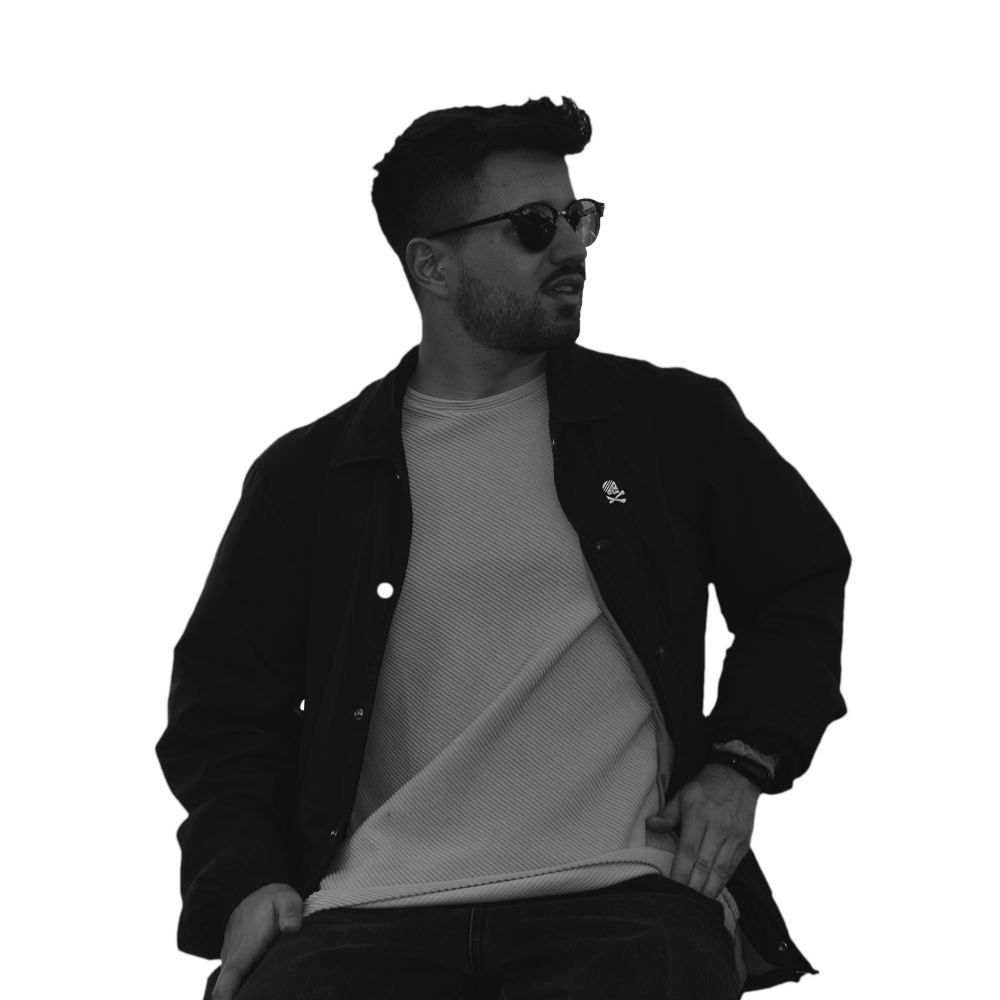
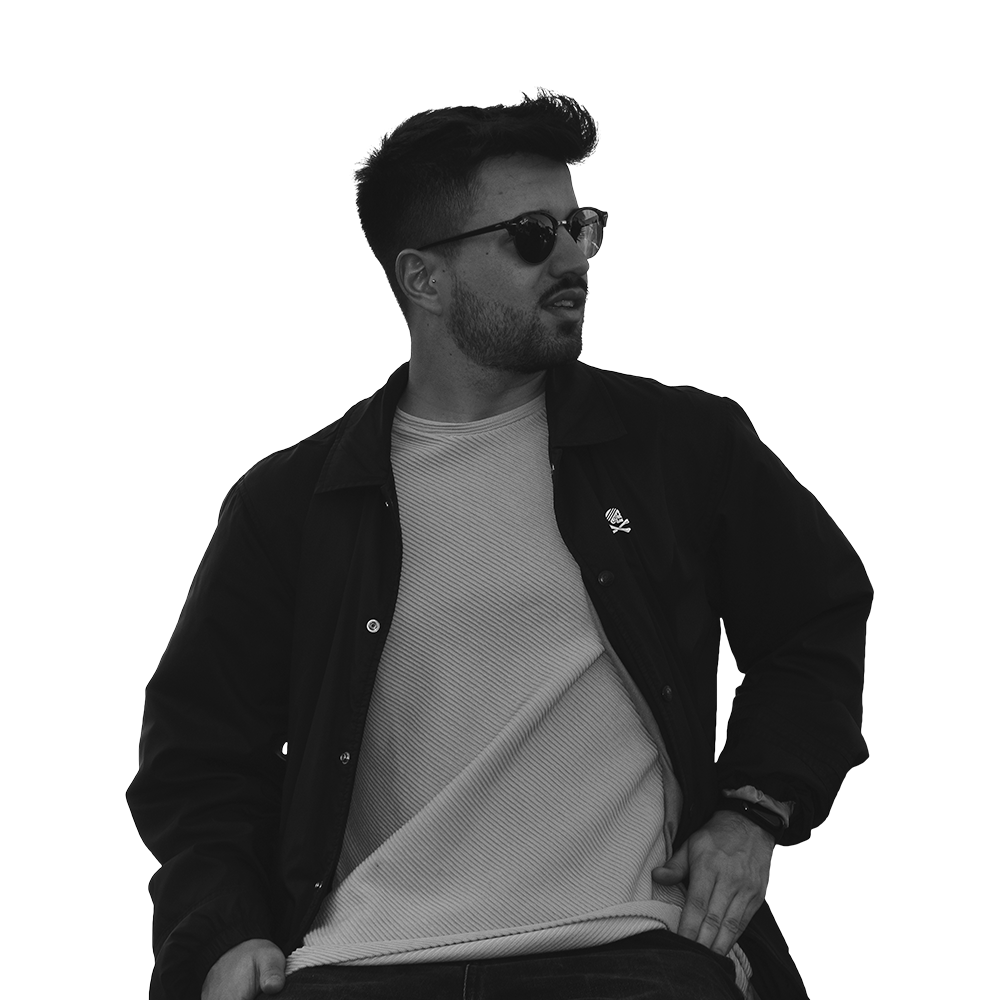
Changes

diff --git a/index.html b/index.html
@@ -40,7 +40,7 @@
 	          <!--<li class="nav-item"><a href="#services-section" class="nav-link"><span>Services</span></a></li>-->
 	          <li class="nav-item"><a href="#skills-section" class="nav-link"><span>Skills</span></a></li>
 	          <li class="nav-item"><a href="#projects-section" class="nav-link"><span>Projects</span></a></li>
-	          <li class="nav-item"><a href="#blog-section" class="nav-link"><span>My Blog</span></a></li>
+	          <!--<li class="nav-item"><a href="#blog-section" class="nav-link"><span>My Blog</span></a></li>-->
 	          <li class="nav-item"><a href="#contact-section" class="nav-link"><span>Contact</span></a></li>
 	        </ul>
 	      </div>
@@ -60,7 +60,7 @@
 		          		<span class="subheading">Hello!</span>
 			            <h1 class="mb-4 mt-3">I'm <span>Giuseppe Murro</span></h1>
 			            <h2 class="mb-4">A Freelance Developer</h2>
-			            <p><a href="#" class="btn btn-primary py-3 px-4">Hire me</a> <a href="#contact-section" class="btn btn-white btn-outline-white py-3 px-4">My works</a></p>
+			            <p><a href="#contact-section" class="btn btn-primary py-3 px-4">Hire me</a> <a href="#projects-section" class="btn btn-white btn-outline-white py-3 px-4">My works</a></p>
 		            </div>
 		          </div>
 	        	</div>
@@ -79,7 +79,7 @@
 		          		<span class="subheading">Hello!</span>
 			            <h1 class="mb-4 mt-3">I'm currently <span>studying</span> for a master's degree</h1>
 			            <h2 class="mb-4">in Computer Science</h2>
-			            <p><a href="#" class="btn btn-primary py-3 px-4">Hire me</a> <a href="#contact-section" class="btn btn-white btn-outline-white py-3 px-4">My works</a></p>
+			            <p><a href="#contact-section" class="btn btn-primary py-3 px-4">Hire me</a> <a href="#projects-section" class="btn btn-white btn-outline-white py-3 px-4">My works</a></p>
 		            </div>
 		          </div>
 	        	</div>
@@ -94,7 +94,7 @@
     			<div class="col-md-6 col-lg-5 d-flex">
     				<div class="img-about img d-flex align-items-stretch">
     					<div class="overlay"></div>
-	    				<div class="img d-flex align-self-stretch align-items-center" style="background-image:url(images/gm_2.png);">
+	    				<div class="img d-flex align-self-stretch align-items-center" style="background-image:url(images/gm_3.png);">
 	    				</div>
     				</div>
     			</div>
@@ -324,10 +324,10 @@ My interest areas are cybersecurity, thanks to participation in the <a href="htt
 					</div>
 					<div class="col-md-6 animate-box">
 						<div class="progress-wrap ftco-animate">
-							<h3>Firebase Realtime Database</h3>
+							<h3>Firebase Realtime DB</h3>
 							<div class="progress">
-							 	<div class="progress-bar color-4" role="progressbar" aria-valuenow="65"
-							  	aria-valuemin="0" aria-valuemax="100" style="width:65%">
+							 	<div class="progress-bar color-4" role="progressbar" aria-valuenow="75"
+							  	aria-valuemin="0" aria-valuemax="100" style="width:75%">
 							    <span>65%</span>
 							  	</div>
 							</div>
@@ -348,8 +348,8 @@ My interest areas are cybersecurity, thanks to participation in the <a href="htt
 						<div class="progress-wrap ftco-animate">
 							<h3>Web Development</h3>
 							<div class="progress">
-							 	<div class="progress-bar color-6" role="progressbar" aria-valuenow="70"
-							  	aria-valuemin="0" aria-valuemax="100" style="width:70%">
+							 	<div class="progress-bar color-6" role="progressbar" aria-valuenow="80"
+							  	aria-valuemin="0" aria-valuemax="100" style="width:80%">
 							    <span>70%</span>
 							  	</div>
 							</div>
@@ -368,7 +368,7 @@ My interest areas are cybersecurity, thanks to participation in the <a href="htt
 					</div>
 					<div class="col-md-6 animate-box">
 						<div class="progress-wrap ftco-animate">
-							<h3>SonarQube Quality Assessment</h3>
+							<h3>SonarQube Assessment</h3>
 							<div class="progress">
 							 	<div class="progress-bar color-6" role="progressbar" aria-valuenow="86"
 							  	aria-valuemin="0" aria-valuemax="100" style="width:86%">
@@ -379,7 +379,7 @@ My interest areas are cybersecurity, thanks to participation in the <a href="htt
 					</div>
 					<div class="col-md-6 animate-box">
 						<div class="progress-wrap ftco-animate">
-							<h3>Pentesting Kali Tools</h3>
+							<h3>Pentesting Kali</h3>
 							<div class="progress">
 							 	<div class="progress-bar color-5" role="progressbar" aria-valuenow="55"
 							  	aria-valuemin="0" aria-valuemax="100" style="width:55%">
@@ -392,9 +392,31 @@ My interest areas are cybersecurity, thanks to participation in the <a href="htt
 						<div class="progress-wrap ftco-animate">
 							<h3>Photoshop</h3>
 							<div class="progress">
-							 	<div class="progress-bar color-6" role="progressbar" aria-valuenow="40"
-							  	aria-valuemin="0" aria-valuemax="100" style="width:40%">
+							 	<div class="progress-bar color-6" role="progressbar" aria-valuenow="50"
+							  	aria-valuemin="0" aria-valuemax="100" style="width:50%">
 							    <span>40%</span>
+							  	</div>
+							</div>
+						</div>
+					</div>
+					<div class="col-md-6 animate-box">
+						<div class="progress-wrap ftco-animate">
+							<h3>Spark AR Studio</h3>
+							<div class="progress">
+							 	<div class="progress-bar color-5" role="progressbar" aria-valuenow="70"
+							  	aria-valuemin="0" aria-valuemax="100" style="width:70%">
+							    <span>60%</span>
+							  	</div>
+							</div>
+						</div>
+					</div>
+					<div class="col-md-6 animate-box">
+						<div class="progress-wrap ftco-animate">
+							<h3>MySQL</h3>
+							<div class="progress">
+							 	<div class="progress-bar color-6" role="progressbar" aria-valuenow="87"
+							  	aria-valuemin="0" aria-valuemax="100" style="width:87%">
+							    <span>87%</span>
 							  	</div>
 							</div>
 						</div>
@@ -442,34 +464,35 @@ My interest areas are cybersecurity, thanks to participation in the <a href="htt
 	    				</div>
     				</div>
 
-    				<div class="project img ftco-animate d-flex justify-content-center align-items-center" style="background-image: url(images/fridge.jpg);">
+    				<div class="project img ftco-animate d-flex justify-content-center align-items-center" style="background-image: url(images/insta.png);">
+		    					<div class="overlay"></div>
+			    				<div class="text text-center p-4">
+			    					<h3><a href="https://www.instagram.com/giuseppemurro/">You can see my AR filters on my instagram profile</a></h>
+	    					<span>Instagram AR Filters</span>
+			    				</div>
+		    				</div>
+    			</div>
+    			<div class="col-md-4">
+    				<div class="row">
+    					<div class="col-md-12">
+		    				
+		    				<div class="project img ftco-animate d-flex justify-content-center align-items-center" style="background-image: url(images/fridge.jpg);">
     					<div class="overlay"></div>
 	    				<div class="text text-center p-4">
 	    					<h3><a href="https://github.com/gmurro/smartFridge">Command line system written in C, that manages the food in the fridge and offers recipes</a></h3>
 	    					<span>Smart Fridge</span>
 	    				</div>
     				</div>
-    			</div>
-    			<div class="col-md-4">
-    				<div class="row">
-    					<div class="col-md-12">
-		    				<div class="project img ftco-animate d-flex justify-content-center align-items-center" style="background-image: url(images/fridge.jpg);">
-		    					<div class="overlay"></div>
-			    				<div class="text text-center p-4">
-			    					<h3><a href="https://github.com/gmurro/smartFridge">Command line system written in C, that manages the food in the fridge and offers recipes</a></h3>
-	    					<span>Smart Fridge</span>
-			    				</div>
-		    				</div>
 	    				</div>
-	    				<div class="col-md-12">
+    					<div class="col-md-12">
 		    				<div class="project img ftco-animate d-flex justify-content-center align-items-center" style="background-image: url(images/project-3.jpg);">
 		    					<div class="overlay"></div>
 			    				<div class="text text-center p-4">
-			    					<h3><a href="#">Branding &amp; Illustration Design</a></h3>
-			    					<span>Web Design</span>
+			    					<h3><a href="https://gmurro.github.io/">Portfolio where I explain who I am, what I do and what interests me</a></h3>
+			    					<span>Personal Web Site</span>
 			    				</div>
 		    				</div>
-	    				</div>
+	    				</div>			
     				</div>
     			</div>
     		</div>
@@ -586,8 +609,8 @@ My interest areas are cybersecurity, thanks to participation in the <a href="htt
 				<div class="row justify-content-center">
 					<div class="col-md-7 ftco-animate text-center">
 						<h2>I'm <span>Available</span> for freelancing</h2>
-						<p>A small river named Duden flows by their place and supplies it with the necessary regelialia.</p>
-						<p class="mb-0"><a href="#" class="btn btn-primary py-3 px-5">Hire me</a></p>
+						<p>Contact me on any social media to get a consultation.</p>
+						<p class="mb-0"><a href="#contact-section" class="btn btn-primary py-3 px-5">Contact me</a></p>
 					</div>
 				</div>
 			</div>
@@ -599,7 +622,7 @@ My interest areas are cybersecurity, thanks to participation in the <a href="htt
           <div class="col-md-7 heading-section text-center ftco-animate">
             <h1 class="big big-2">Contact</h1>
             <h2 class="mb-4">Contact Me</h2>
-            <p>Far far away, behind the word mountains, far from the countries Vokalia and Consonantia</p>
+            <!--<p>Far far away, behind the word mountains, far from the countries Vokalia and Consonantia</p>-->
           </div>
         </div>
 
@@ -607,42 +630,42 @@ My interest areas are cybersecurity, thanks to participation in the <a href="htt
           <div class="col-md-6 col-lg-3 d-flex ftco-animate">
           	<div class="align-self-stretch box p-4 text-center">
           		<div class="icon d-flex align-items-center justify-content-center">
-          			<span class="icon-map-signs"></span>
+          			<span class="icon-facebook"></span>
           		</div>
-          		<h3 class="mb-4">Address</h3>
-	            <p>198 West 21th Street, Suite 721 New York NY 10016</p>
+          		<h3 class="mb-4">Facebook</h3>
+	            <p><a href="https://www.facebook.com/giuseppemurro6">Giuseppe Murro</a></p>
 	          </div>
           </div>
           <div class="col-md-6 col-lg-3 d-flex ftco-animate">
           	<div class="align-self-stretch box p-4 text-center">
           		<div class="icon d-flex align-items-center justify-content-center">
-          			<span class="icon-phone2"></span>
+          			<span class="icon-instagram"></span>
           		</div>
-          		<h3 class="mb-4">Contact Number</h3>
-	            <p><a href="tel://1234567920">+ 1235 2355 98</a></p>
+          		<h3 class="mb-4">Instagram</h3>
+	            <p><a href="https://www.instagram.com/giuseppemurro/">@giuseppemurro</a></p>
 	          </div>
           </div>
           <div class="col-md-6 col-lg-3 d-flex ftco-animate">
           	<div class="align-self-stretch box p-4 text-center">
           		<div class="icon d-flex align-items-center justify-content-center">
-          			<span class="icon-paper-plane"></span>
+          			<span class="icon-telegram"></span>
           		</div>
-          		<h3 class="mb-4">Email Address</h3>
-	            <p><a href="mailto:info@yoursite.com">info@yoursite.com</a></p>
+          		<h3 class="mb-4">Telegram</h3>
+	            <p><a href="https://t.me/giuseppemurro">@giuseppemurro</a></p>
 	          </div>
           </div>
           <div class="col-md-6 col-lg-3 d-flex ftco-animate">
           	<div class="align-self-stretch box p-4 text-center">
           		<div class="icon d-flex align-items-center justify-content-center">
-          			<span class="icon-globe"></span>
+          			<span class="icon-github"></span>
           		</div>
-          		<h3 class="mb-4">Website</h3>
-	            <p><a href="#">yoursite.com</a></p>
+          		<h3 class="mb-4">Github</h3>
+	            <p><a href="https://github.com/gmurro/">gmurro</a></p>
 	          </div>
           </div>
         </div>
 
-        <div class="row no-gutters block-9">
+        <!--<div class="row no-gutters block-9">
           <div class="col-md-6 order-md-last d-flex">
             <form action="#" class="bg-light p-4 p-md-5 contact-form">
               <div class="form-group">
@@ -667,15 +690,15 @@ My interest areas are cybersecurity, thanks to participation in the <a href="htt
           <div class="col-md-6 d-flex">
           	<div class="img" style="background-image: url(images/about.jpg);"></div>
           </div>
-        </div>
+        </div>-->
       </div>
     </section>
 		
 
     <footer class="ftco-footer ftco-section">
       <div class="container">
-        <div class="row mb-5">
-          <div class="col-md">
+       <div class="row mb-5">
+           <div class="col-md">
             <div class="ftco-footer-widget mb-4">
               <h2 class="ftco-heading-2">About</h2>
               <p>Far far away, behind the word mountains, far from the countries Vokalia and Consonantia, there live the blind texts.</p>
